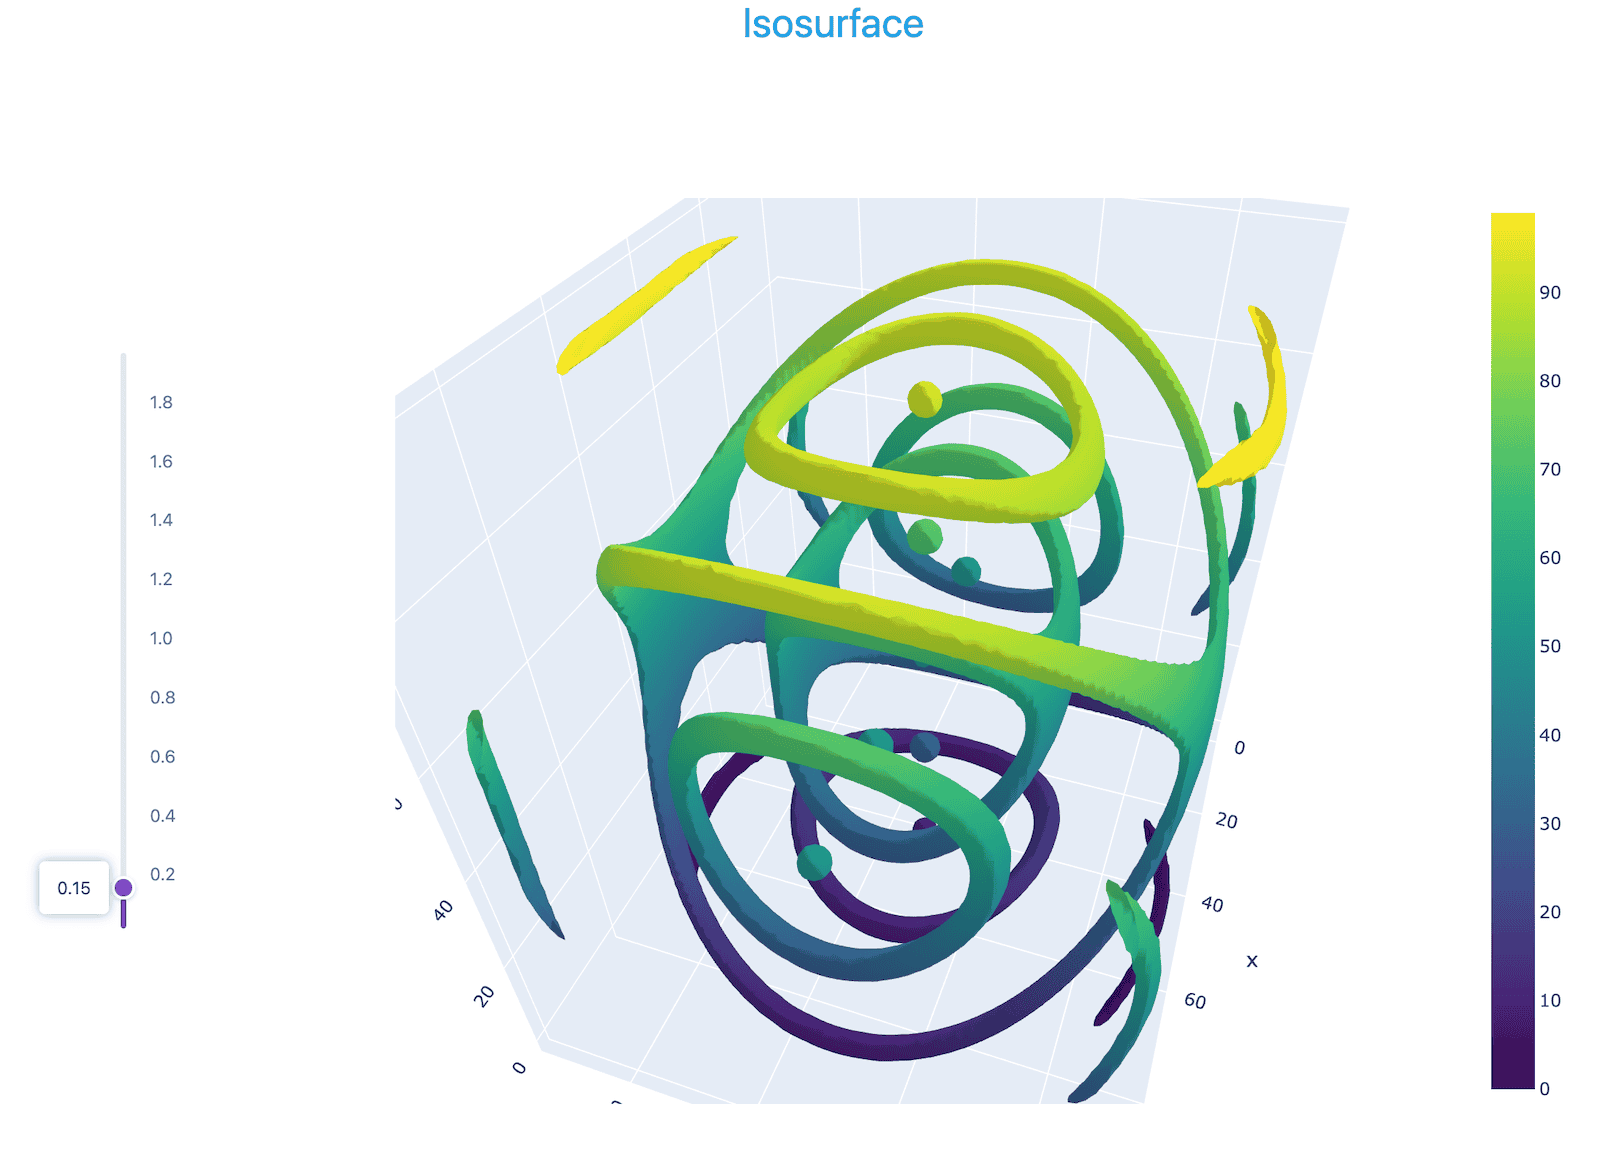
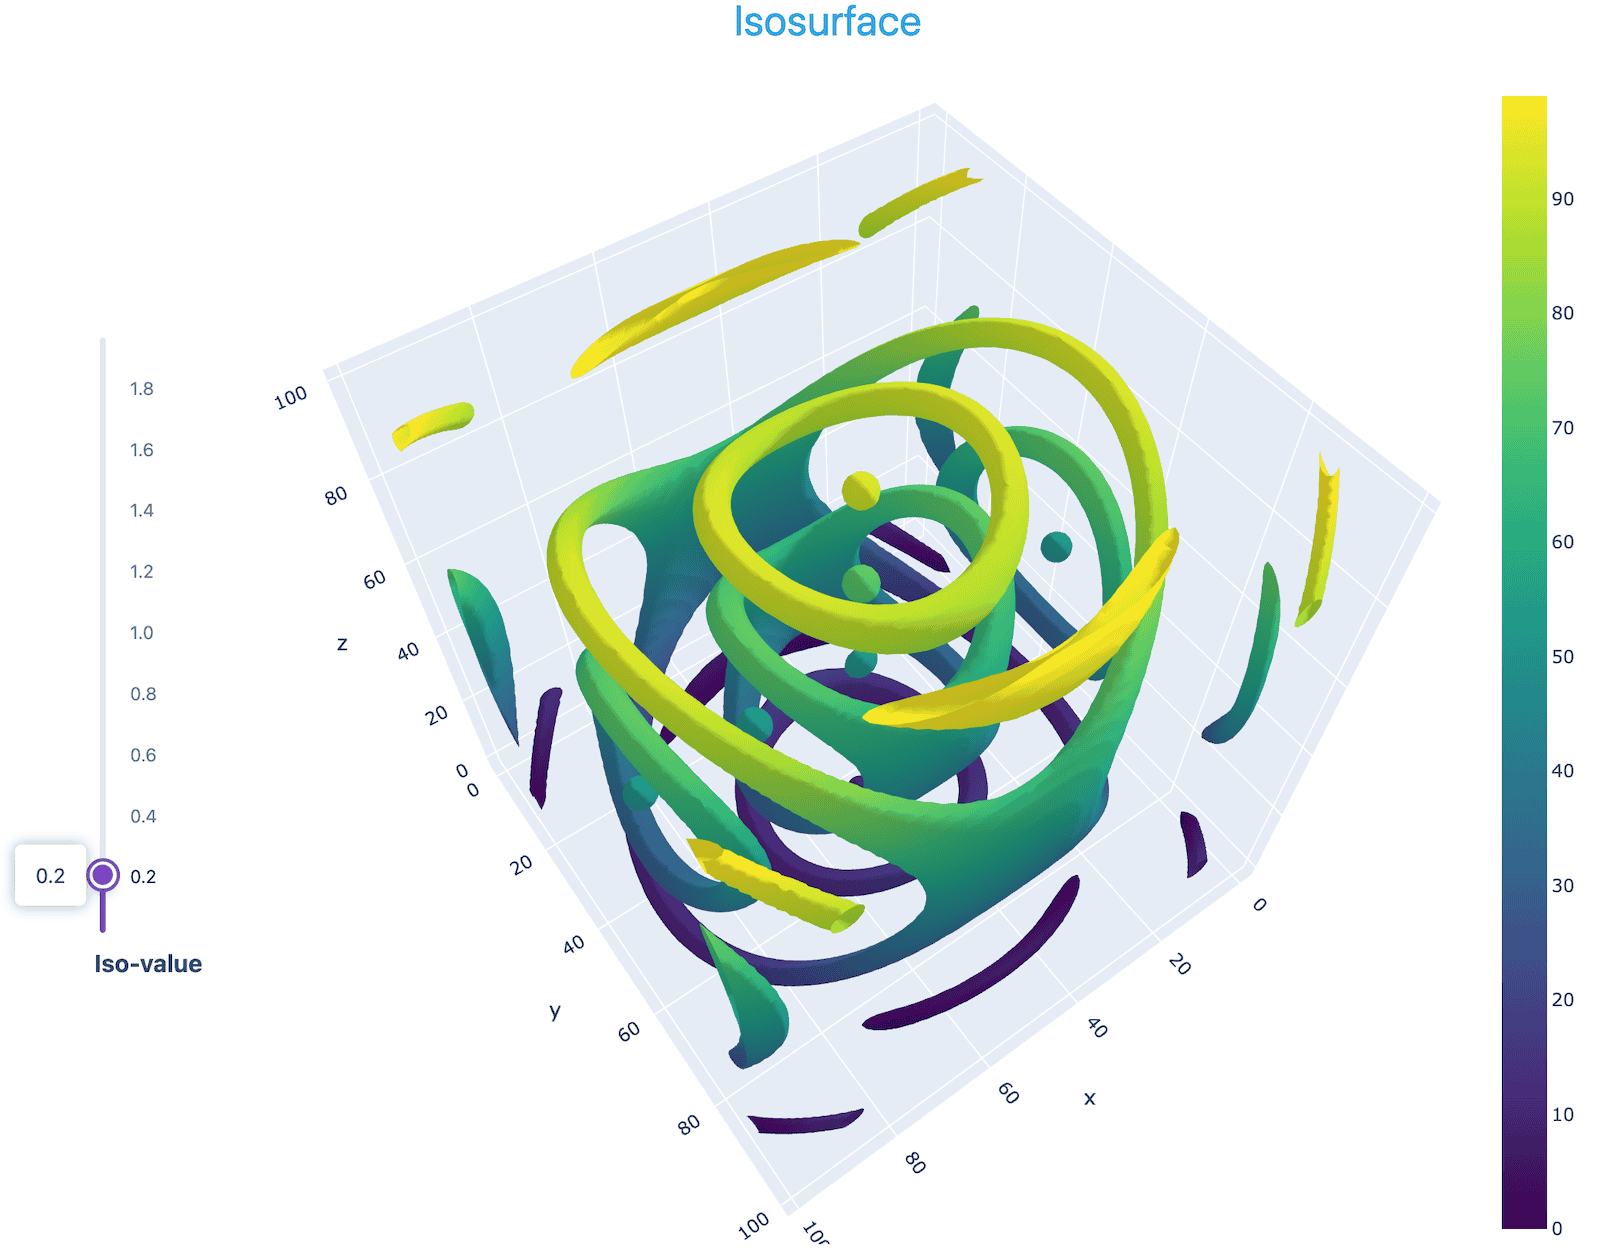
Built site for gh-pages

diff --git a/plotly1/plotly-04-dash.html b/plotly1/plotly-04-dash.html
@@ -370,6 +370,7 @@ pre > code.sourceCode > span > a:first-child::before { text-decoration: underlin
   <li><a href="#d-volumetric-view" id="toc-d-volumetric-view" class="nav-link" data-scroll-target="#d-volumetric-view">3D volumetric view</a></li>
   <li><a href="#other-controls" id="toc-other-controls" class="nav-link" data-scroll-target="#other-controls">Other controls</a></li>
   <li><a href="#publishing-hosting" id="toc-publishing-hosting" class="nav-link" data-scroll-target="#publishing-hosting">Publishing / hosting</a></li>
+  <li><a href="#comparison-to-shiny-for-python" id="toc-comparison-to-shiny-for-python" class="nav-link" data-scroll-target="#comparison-to-shiny-for-python">Comparison to Shiny for Python</a></li>
   </ul>
 </nav>
     </div>
@@ -864,38 +865,40 @@ Note
 <span id="cb17-17"><a href="#cb17-17" aria-hidden="true" tabindex="-1"></a>    dbc.Row([html.Div(<span class="st">'Isosurface'</span>, className<span class="op">=</span><span class="st">"text-primary text-center fs-3"</span>)]), <span class="co"># colour+centring+size</span></span>
 <span id="cb17-18"><a href="#cb17-18" aria-hidden="true" tabindex="-1"></a>    dbc.Row([</span>
 <span id="cb17-19"><a href="#cb17-19" aria-hidden="true" tabindex="-1"></a>        dbc.Col([</span>
-<span id="cb17-20"><a href="#cb17-20" aria-hidden="true" tabindex="-1"></a>            dcc.Slider(<span class="bu">id</span><span class="op">=</span><span class="st">'slider1'</span>, <span class="bu">min</span><span class="op">=</span><span class="fl">0.05</span>, <span class="bu">max</span><span class="op">=</span><span class="fl">1.95</span>, step<span class="op">=</span><span class="fl">0.05</span>,</span>
-<span id="cb17-21"><a href="#cb17-21" aria-hidden="true" tabindex="-1"></a>                       value<span class="op">=</span><span class="fl">0.5</span>, vertical<span class="op">=</span><span class="va">True</span>,</span>
-<span id="cb17-22"><a href="#cb17-22" aria-hidden="true" tabindex="-1"></a>                       marks<span class="op">=</span>{i<span class="op">/</span><span class="dv">10</span>: <span class="bu">str</span>(i<span class="op">/</span><span class="dv">10</span>) <span class="cf">for</span> i <span class="kw">in</span> <span class="bu">range</span>(<span class="dv">0</span>, <span class="dv">21</span>, <span class="dv">2</span>)},</span>
-<span id="cb17-23"><a href="#cb17-23" aria-hidden="true" tabindex="-1"></a>                       tooltip<span class="op">=</span>{<span class="st">"placement"</span>: <span class="st">"left"</span>, <span class="st">"always_visible"</span>: <span class="va">True</span>}</span>
-<span id="cb17-24"><a href="#cb17-24" aria-hidden="true" tabindex="-1"></a>                       ),</span>
+<span id="cb17-20"><a href="#cb17-20" aria-hidden="true" tabindex="-1"></a>            dcc.Slider(<span class="bu">id</span><span class="op">=</span><span class="st">'slider1'</span>, <span class="bu">min</span><span class="op">=</span><span class="fl">0.05</span>, <span class="bu">max</span><span class="op">=</span><span class="fl">1.95</span>, step<span class="op">=</span><span class="fl">0.05</span>, value<span class="op">=</span><span class="fl">0.5</span>, vertical<span class="op">=</span><span class="va">True</span>,</span>
+<span id="cb17-21"><a href="#cb17-21" aria-hidden="true" tabindex="-1"></a>                       marks<span class="op">=</span>{i<span class="op">/</span><span class="dv">10</span>: <span class="bu">str</span>(i<span class="op">/</span><span class="dv">10</span>) <span class="cf">for</span> i <span class="kw">in</span> <span class="bu">range</span>(<span class="dv">0</span>, <span class="dv">21</span>, <span class="dv">2</span>)},</span>
+<span id="cb17-22"><a href="#cb17-22" aria-hidden="true" tabindex="-1"></a>                       tooltip<span class="op">=</span>{<span class="st">"placement"</span>: <span class="st">"left"</span>, <span class="st">"always_visible"</span>: <span class="va">True</span>}</span>
+<span id="cb17-23"><a href="#cb17-23" aria-hidden="true" tabindex="-1"></a>                       ),</span>
+<span id="cb17-24"><a href="#cb17-24" aria-hidden="true" tabindex="-1"></a>            html.Label(<span class="st">"Iso-value"</span>, className<span class="op">=</span><span class="st">"text-center w-100 fw-bold mt-2"</span>)</span>
 <span id="cb17-25"><a href="#cb17-25" aria-hidden="true" tabindex="-1"></a>        ], width<span class="op">=</span><span class="dv">1</span>, align<span class="op">=</span><span class="st">"center"</span>, className<span class="op">=</span><span class="st">"ms-4"</span>),   <span class="co"># ms-4 is a left margin of size 4</span></span>
 <span id="cb17-26"><a href="#cb17-26" aria-hidden="true" tabindex="-1"></a>        dbc.Col([</span>
 <span id="cb17-27"><a href="#cb17-27" aria-hidden="true" tabindex="-1"></a>            dcc.Graph(figure<span class="op">=</span>{}, <span class="bu">id</span><span class="op">=</span><span class="st">'g1'</span>)</span>
 <span id="cb17-28"><a href="#cb17-28" aria-hidden="true" tabindex="-1"></a>        ], width<span class="op">=</span><span class="st">"auto"</span>),</span>
 <span id="cb17-29"><a href="#cb17-29" aria-hidden="true" tabindex="-1"></a>    ], justify<span class="op">=</span><span class="st">"center"</span>)   <span class="co"># centre both columns in the row</span></span>
 <span id="cb17-30"><a href="#cb17-30" aria-hidden="true" tabindex="-1"></a>], fluid<span class="op">=</span><span class="va">True</span>)   <span class="co"># use full screen width, min margin padding</span></span>
-<span id="cb17-31"><a href="#cb17-31" aria-hidden="true" tabindex="-1"></a></span>
-<span id="cb17-32"><a href="#cb17-32" aria-hidden="true" tabindex="-1"></a><span class="at">@callback</span>(</span>
-<span id="cb17-33"><a href="#cb17-33" aria-hidden="true" tabindex="-1"></a>    Output(component_id<span class="op">=</span><span class="st">'g1'</span>, component_property<span class="op">=</span><span class="st">'figure'</span>),</span>
-<span id="cb17-34"><a href="#cb17-34" aria-hidden="true" tabindex="-1"></a>    Input(component_id<span class="op">=</span><span class="st">'slider1'</span>, component_property<span class="op">=</span><span class="st">'value'</span>)</span>
-<span id="cb17-35"><a href="#cb17-35" aria-hidden="true" tabindex="-1"></a>)</span>
-<span id="cb17-36"><a href="#cb17-36" aria-hidden="true" tabindex="-1"></a><span class="kw">def</span> update_graph(selected):</span>
-<span id="cb17-37"><a href="#cb17-37" aria-hidden="true" tabindex="-1"></a>    <span class="bu">print</span>(<span class="st">'running the callback function for'</span>, selected)</span>
-<span id="cb17-38"><a href="#cb17-38" aria-hidden="true" tabindex="-1"></a>    <span class="co"># generate marching cubes</span></span>
-<span id="cb17-39"><a href="#cb17-39" aria-hidden="true" tabindex="-1"></a>    vertices, triangles, normals, values <span class="op">=</span> measure.marching_cubes(rho, selected)   <span class="co"># create an isosurface</span></span>
-<span id="cb17-40"><a href="#cb17-40" aria-hidden="true" tabindex="-1"></a>    <span class="bu">print</span>(<span class="bu">format</span>(vertices.shape[<span class="dv">0</span>], <span class="st">","</span>), <span class="st">"vertices and"</span>, <span class="bu">format</span>(triangles.shape[<span class="dv">0</span>], <span class="st">","</span>), <span class="st">"triangles"</span>)</span>
-<span id="cb17-41"><a href="#cb17-41" aria-hidden="true" tabindex="-1"></a>    fig <span class="op">=</span> go.Figure(data<span class="op">=</span>[</span>
-<span id="cb17-42"><a href="#cb17-42" aria-hidden="true" tabindex="-1"></a>        go.Mesh3d(</span>
-<span id="cb17-43"><a href="#cb17-43" aria-hidden="true" tabindex="-1"></a>            x<span class="op">=</span>vertices[:,<span class="dv">0</span>], y<span class="op">=</span>vertices[:,<span class="dv">1</span>], z<span class="op">=</span>vertices[:,<span class="dv">2</span>],</span>
-<span id="cb17-44"><a href="#cb17-44" aria-hidden="true" tabindex="-1"></a>            i<span class="op">=</span>triangles[:, <span class="dv">0</span>], j<span class="op">=</span>triangles[:, <span class="dv">1</span>], k<span class="op">=</span>triangles[:, <span class="dv">2</span>],</span>
-<span id="cb17-45"><a href="#cb17-45" aria-hidden="true" tabindex="-1"></a>            intensity<span class="op">=</span>vertices[:, <span class="dv">2</span>], <span class="co"># color by z-height</span></span>
-<span id="cb17-46"><a href="#cb17-46" aria-hidden="true" tabindex="-1"></a>            colorscale<span class="op">=</span><span class="st">"Viridis"</span>, showscale<span class="op">=</span><span class="va">True</span></span>
-<span id="cb17-47"><a href="#cb17-47" aria-hidden="true" tabindex="-1"></a>        )</span>
-<span id="cb17-48"><a href="#cb17-48" aria-hidden="true" tabindex="-1"></a>    ])</span>
-<span id="cb17-49"><a href="#cb17-49" aria-hidden="true" tabindex="-1"></a>    fig.update_layout(width<span class="op">=</span><span class="dv">900</span>, height<span class="op">=</span><span class="dv">800</span>, scene<span class="op">=</span><span class="bu">dict</span>(aspectmode<span class="op">=</span><span class="st">"data"</span>))</span>
-<span id="cb17-50"><a href="#cb17-50" aria-hidden="true" tabindex="-1"></a>    <span class="cf">return</span> fig</span>
-<span id="cb17-51"><a href="#cb17-51" aria-hidden="true" tabindex="-1"></a>app.run(debug<span class="op">=</span><span class="va">True</span>)</span></code></pre></div><button title="Copy to Clipboard" class="code-copy-button"><i class="bi"></i></button></div>
+<span id="cb17-31"><a href="#cb17-31" aria-hidden="true" tabindex="-1"></a><span class="at">@callback</span>(</span>
+<span id="cb17-32"><a href="#cb17-32" aria-hidden="true" tabindex="-1"></a>    Output(component_id<span class="op">=</span><span class="st">'g1'</span>, component_property<span class="op">=</span><span class="st">'figure'</span>),</span>
+<span id="cb17-33"><a href="#cb17-33" aria-hidden="true" tabindex="-1"></a>    Input(component_id<span class="op">=</span><span class="st">'slider1'</span>, component_property<span class="op">=</span><span class="st">'value'</span>)</span>
+<span id="cb17-34"><a href="#cb17-34" aria-hidden="true" tabindex="-1"></a>)</span>
+<span id="cb17-35"><a href="#cb17-35" aria-hidden="true" tabindex="-1"></a><span class="kw">def</span> update_graph(selected):</span>
+<span id="cb17-36"><a href="#cb17-36" aria-hidden="true" tabindex="-1"></a>    <span class="bu">print</span>(<span class="st">'running the callback function for'</span>, selected)</span>
+<span id="cb17-37"><a href="#cb17-37" aria-hidden="true" tabindex="-1"></a>    <span class="co"># generate marching cubes</span></span>
+<span id="cb17-38"><a href="#cb17-38" aria-hidden="true" tabindex="-1"></a>    vertices, triangles, normals, values <span class="op">=</span> measure.marching_cubes(rho, selected)   <span class="co"># create an isosurface</span></span>
+<span id="cb17-39"><a href="#cb17-39" aria-hidden="true" tabindex="-1"></a>    <span class="bu">print</span>(<span class="bu">format</span>(vertices.shape[<span class="dv">0</span>], <span class="st">","</span>), <span class="st">"vertices and"</span>, <span class="bu">format</span>(triangles.shape[<span class="dv">0</span>], <span class="st">","</span>), <span class="st">"triangles"</span>)</span>
+<span id="cb17-40"><a href="#cb17-40" aria-hidden="true" tabindex="-1"></a>    fig <span class="op">=</span> go.Figure(data<span class="op">=</span>[</span>
+<span id="cb17-41"><a href="#cb17-41" aria-hidden="true" tabindex="-1"></a>        go.Mesh3d(</span>
+<span id="cb17-42"><a href="#cb17-42" aria-hidden="true" tabindex="-1"></a>            x<span class="op">=</span>vertices[:,<span class="dv">0</span>], y<span class="op">=</span>vertices[:,<span class="dv">1</span>], z<span class="op">=</span>vertices[:,<span class="dv">2</span>],</span>
+<span id="cb17-43"><a href="#cb17-43" aria-hidden="true" tabindex="-1"></a>            i<span class="op">=</span>triangles[:, <span class="dv">0</span>], j<span class="op">=</span>triangles[:, <span class="dv">1</span>], k<span class="op">=</span>triangles[:, <span class="dv">2</span>],</span>
+<span id="cb17-44"><a href="#cb17-44" aria-hidden="true" tabindex="-1"></a>            intensity<span class="op">=</span>vertices[:, <span class="dv">2</span>], <span class="co"># color by z-height</span></span>
+<span id="cb17-45"><a href="#cb17-45" aria-hidden="true" tabindex="-1"></a>            colorscale<span class="op">=</span><span class="st">"Viridis"</span>, showscale<span class="op">=</span><span class="va">True</span></span>
+<span id="cb17-46"><a href="#cb17-46" aria-hidden="true" tabindex="-1"></a>        )</span>
+<span id="cb17-47"><a href="#cb17-47" aria-hidden="true" tabindex="-1"></a>    ])</span>
+<span id="cb17-48"><a href="#cb17-48" aria-hidden="true" tabindex="-1"></a>    fig.update_layout(width<span class="op">=</span><span class="dv">900</span>, height<span class="op">=</span><span class="dv">800</span>,</span>
+<span id="cb17-49"><a href="#cb17-49" aria-hidden="true" tabindex="-1"></a>                      scene<span class="op">=</span><span class="bu">dict</span>(aspectmode<span class="op">=</span><span class="st">"data"</span>,</span>
+<span id="cb17-50"><a href="#cb17-50" aria-hidden="true" tabindex="-1"></a>                                 uirevision<span class="op">=</span><span class="st">"keep-camera"</span>), <span class="co"># preserve rotation, zoom, pan across graph update</span></span>
+<span id="cb17-51"><a href="#cb17-51" aria-hidden="true" tabindex="-1"></a>                      margin<span class="op">=</span><span class="bu">dict</span>(t<span class="op">=</span><span class="dv">20</span>, b<span class="op">=</span><span class="dv">10</span>, l<span class="op">=</span><span class="dv">10</span>, r<span class="op">=</span><span class="dv">10</span>))   <span class="co"># margins around the figure</span></span>
+<span id="cb17-52"><a href="#cb17-52" aria-hidden="true" tabindex="-1"></a>    <span class="cf">return</span> fig</span>
+<span id="cb17-53"><a href="#cb17-53" aria-hidden="true" tabindex="-1"></a>app.run(debug<span class="op">=</span><span class="va">True</span>)</span></code></pre></div><button title="Copy to Clipboard" class="code-copy-button"><i class="bi"></i></button></div>
 <div class="quarto-figure quarto-figure-center">
 <figure class="figure">
 <p><img src="../fig/iso1.png" class="img-fluid quarto-figure quarto-figure-center figure-img" style="width:100.0%"></p>
@@ -923,11 +926,11 @@ Note
 <span id="cb18-19"><a href="#cb18-19" aria-hidden="true" tabindex="-1"></a>    dbc.Row([</span>
 <span id="cb18-20"><a href="#cb18-20" aria-hidden="true" tabindex="-1"></a>        dbc.Col([</span>
 <span id="cb18-21"><a href="#cb18-21" aria-hidden="true" tabindex="-1"></a>            dcc.Slider(</span>
-<span id="cb18-22"><a href="#cb18-22" aria-hidden="true" tabindex="-1"></a>                <span class="bu">id</span><span class="op">=</span><span class="st">'slider1'</span>, <span class="bu">min</span><span class="op">=</span><span class="fl">0.05</span>, <span class="bu">max</span><span class="op">=</span><span class="fl">1.95</span>, step<span class="op">=</span><span class="fl">0.05</span>,</span>
-<span id="cb18-23"><a href="#cb18-23" aria-hidden="true" tabindex="-1"></a>                value<span class="op">=</span><span class="fl">0.5</span>, vertical<span class="op">=</span><span class="va">True</span>,</span>
-<span id="cb18-24"><a href="#cb18-24" aria-hidden="true" tabindex="-1"></a>                marks<span class="op">=</span>{i<span class="op">/</span><span class="dv">10</span>: <span class="bu">str</span>(i<span class="op">/</span><span class="dv">10</span>) <span class="cf">for</span> i <span class="kw">in</span> <span class="bu">range</span>(<span class="dv">0</span>, <span class="dv">21</span>, <span class="dv">2</span>)},</span>
-<span id="cb18-25"><a href="#cb18-25" aria-hidden="true" tabindex="-1"></a>                tooltip<span class="op">=</span>{<span class="st">"placement"</span>: <span class="st">"left"</span>, <span class="st">"always_visible"</span>: <span class="va">True</span>}</span>
-<span id="cb18-26"><a href="#cb18-26" aria-hidden="true" tabindex="-1"></a>            ),</span>
+<span id="cb18-22"><a href="#cb18-22" aria-hidden="true" tabindex="-1"></a>                <span class="bu">id</span><span class="op">=</span><span class="st">'slider1'</span>, <span class="bu">min</span><span class="op">=</span><span class="fl">0.05</span>, <span class="bu">max</span><span class="op">=</span><span class="fl">1.95</span>, step<span class="op">=</span><span class="fl">0.05</span>, value<span class="op">=</span><span class="fl">0.5</span>, vertical<span class="op">=</span><span class="va">True</span>,</span>
+<span id="cb18-23"><a href="#cb18-23" aria-hidden="true" tabindex="-1"></a>                marks<span class="op">=</span>{i<span class="op">/</span><span class="dv">10</span>: <span class="bu">str</span>(i<span class="op">/</span><span class="dv">10</span>) <span class="cf">for</span> i <span class="kw">in</span> <span class="bu">range</span>(<span class="dv">0</span>, <span class="dv">21</span>, <span class="dv">2</span>)},</span>
+<span id="cb18-24"><a href="#cb18-24" aria-hidden="true" tabindex="-1"></a>                tooltip<span class="op">=</span>{<span class="st">"placement"</span>: <span class="st">"left"</span>, <span class="st">"always_visible"</span>: <span class="va">True</span>}</span>
+<span id="cb18-25"><a href="#cb18-25" aria-hidden="true" tabindex="-1"></a>            ),</span>
+<span id="cb18-26"><a href="#cb18-26" aria-hidden="true" tabindex="-1"></a>            html.Label(<span class="st">"Iso-value"</span>, className<span class="op">=</span><span class="st">"text-center w-100 fw-bold mt-2"</span>)</span>
 <span id="cb18-27"><a href="#cb18-27" aria-hidden="true" tabindex="-1"></a>        ], width<span class="op">=</span><span class="dv">1</span>, align<span class="op">=</span><span class="st">"center"</span>, className<span class="op">=</span><span class="st">"ms-4"</span>),</span>
 <span id="cb18-28"><a href="#cb18-28" aria-hidden="true" tabindex="-1"></a>        dbc.Col([</span>
 <span id="cb18-29"><a href="#cb18-29" aria-hidden="true" tabindex="-1"></a>            html.Div(</span>
@@ -1114,6 +1117,55 @@ Note
 <!-- how to include into a website? -->
 <p>There are two ways you can work with Plotly Cloud: from your running app or via their portal. For the former you’ll need to install Plotly Cloud extension with <code>uv pip install "dash[cloud]"</code> (exact command depends on your Python setup) and then start the app with <code>app.run(debug=True)</code> and use the dev tools UI in the lower right corner. To replace your currently running app (there is a limit of 1) you need to open the app settings, or click Open Settings in Plotly Cloud | General | Delete Dash app, and only then you can publish a new app.</p>
 <p>I personally find it easiest to use their <a href="https://cloud.plotly.com">web UI</a> and drag and drop my Dash <code>*.py</code> script files. Also note that – when publishing to Plotly Cloud – it appears it won’t run the community styling libraries: I tried Dash Bootstrap Components and saw no formatting.</p>
+</section>
+<section id="comparison-to-shiny-for-python" class="level2">
+<h2 class="anchored" data-anchor-id="comparison-to-shiny-for-python">Comparison to Shiny for Python</h2>
+<table class="caption-top table">
+<colgroup>
+<col style="width: 12%">
+<col style="width: 42%">
+<col style="width: 45%">
+</colgroup>
+<thead>
+<tr class="header">
+<th style="text-align: left;">Feature</th>
+<th style="text-align: left;">Plotly Dash</th>
+<th style="text-align: left;">Shiny for Python</th>
+</tr>
+</thead>
+<tbody>
+<tr class="odd">
+<td style="text-align: left;">Programming model</td>
+<td style="text-align: left;">functional / declarative</td>
+<td style="text-align: left;">imperative / reactive</td>
+</tr>
+<tr class="even">
+<td style="text-align: left;">Reactivity style</td>
+<td style="text-align: left;">explicit callbacks with specified Input/Output/State</td>
+<td style="text-align: left;">transparent reactivity</td>
+</tr>
+<tr class="odd">
+<td style="text-align: left;">State management</td>
+<td style="text-align: left;">client-side via React.js</td>
+<td style="text-align: left;">stateful (server-side session management)</td>
+</tr>
+<tr class="even">
+<td style="text-align: left;">UI definition</td>
+<td style="text-align: left;">static component tree (HTML/Components)</td>
+<td style="text-align: left;">dynamic UI (UI as an output)</td>
+</tr>
+<tr class="odd">
+<td style="text-align: left;">Execution flow</td>
+<td style="text-align: left;">event-driven (triggered by specific IDs)</td>
+<td style="text-align: left;">dependency-driven (automatic graph resolution)</td>
+</tr>
+<tr class="even">
+<td style="text-align: left;">Best for</td>
+<td style="text-align: left;">large-scale enterprise apps with custom JS/CSS</td>
+<td style="text-align: left;">rapid prototyping and complex data dependencies</td>
+</tr>
+</tbody>
+</table>
 <!-- python scatter3.py -->
 <!-- open in the browser -->
 <!-- in the dev tools UI in the lower right corner, select Plotly Cloud | Sign In -->
